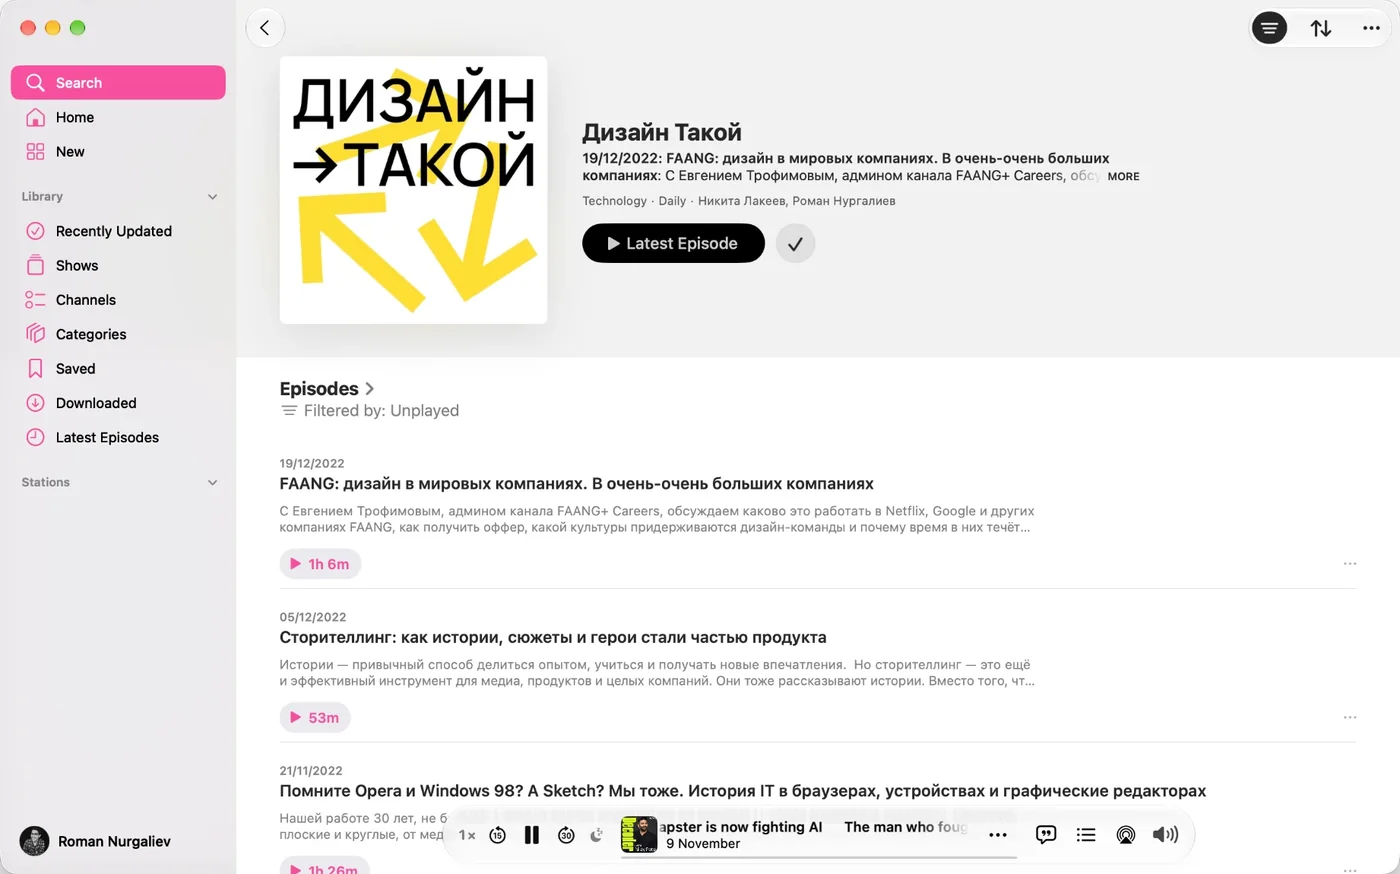
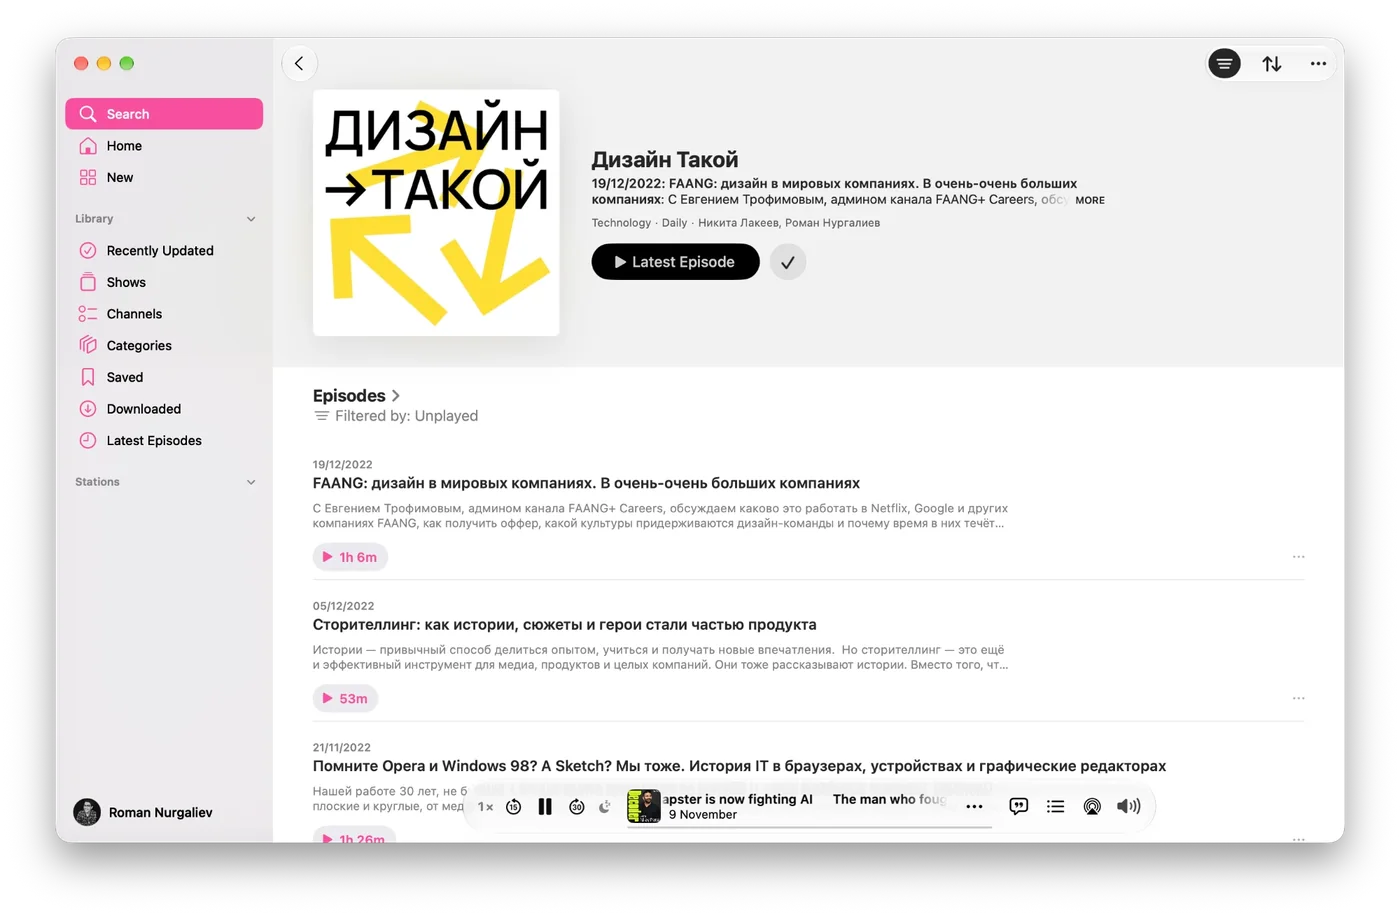
Podcast card: keep the window shadow, like Antara

Changed region(s): [[0.0, 0.0, 0.9829, 1.0], [0.86, 0.0, 0.9521, 0.0927], [0.9829, 0.9886, 1.0, 1.0]]

diff --git a/index.html b/index.html
@@ -181,7 +181,7 @@
         <a class="case-card" href="work/podcast.html">
           <div class="case-thumb">
             <div class="case-thumb-single">
-              <img src="work/images/podcast/apple-podcasts-1400.webp" srcset="work/images/podcast/apple-podcasts-700.webp 700w, work/images/podcast/apple-podcasts-1400.webp 1400w" sizes="(max-width: 768px) 90vw, 670px" width="1400" height="874" alt="Дизайн Такой in Apple Podcasts with the episode list" loading="lazy" decoding="async">
+              <img src="work/images/podcast/apple-podcasts-1400.webp" srcset="work/images/podcast/apple-podcasts-700.webp 700w, work/images/podcast/apple-podcasts-1400.webp 1400w" sizes="(max-width: 768px) 90vw, 670px" width="1400" height="916" alt="Дизайн Такой in Apple Podcasts with the episode list" loading="lazy" decoding="async">
             </div>
           </div>
           <div class="case-meta">
